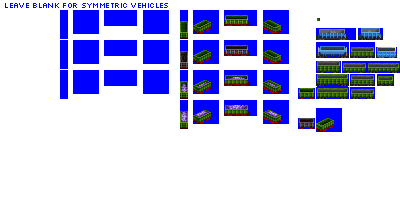
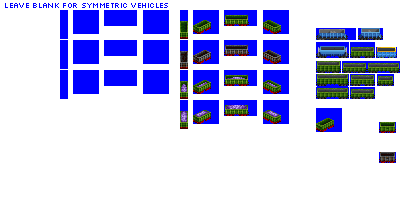
Change: updated sprites complete for gen 4 dump cars

diff --git a/src/vehicles/dump_cars.py b/src/vehicles/dump_cars.py
@@ -27,7 +27,7 @@ def main():
                              base_numeric_id=2370,
                              gen=4,
                              subtype='A',
-                             sprites_complete=False)
+                             sprites_complete=True)
 
     consist.add_unit(type=FreightCar,
                      vehicle_length=4,
@@ -37,7 +37,7 @@ def main():
                              base_numeric_id=2380,
                              gen=4,
                              subtype='B',
-                             sprites_complete=False)
+                             sprites_complete=True)
 
     consist.add_unit(type=FreightCar,
                      vehicle_length=6,
